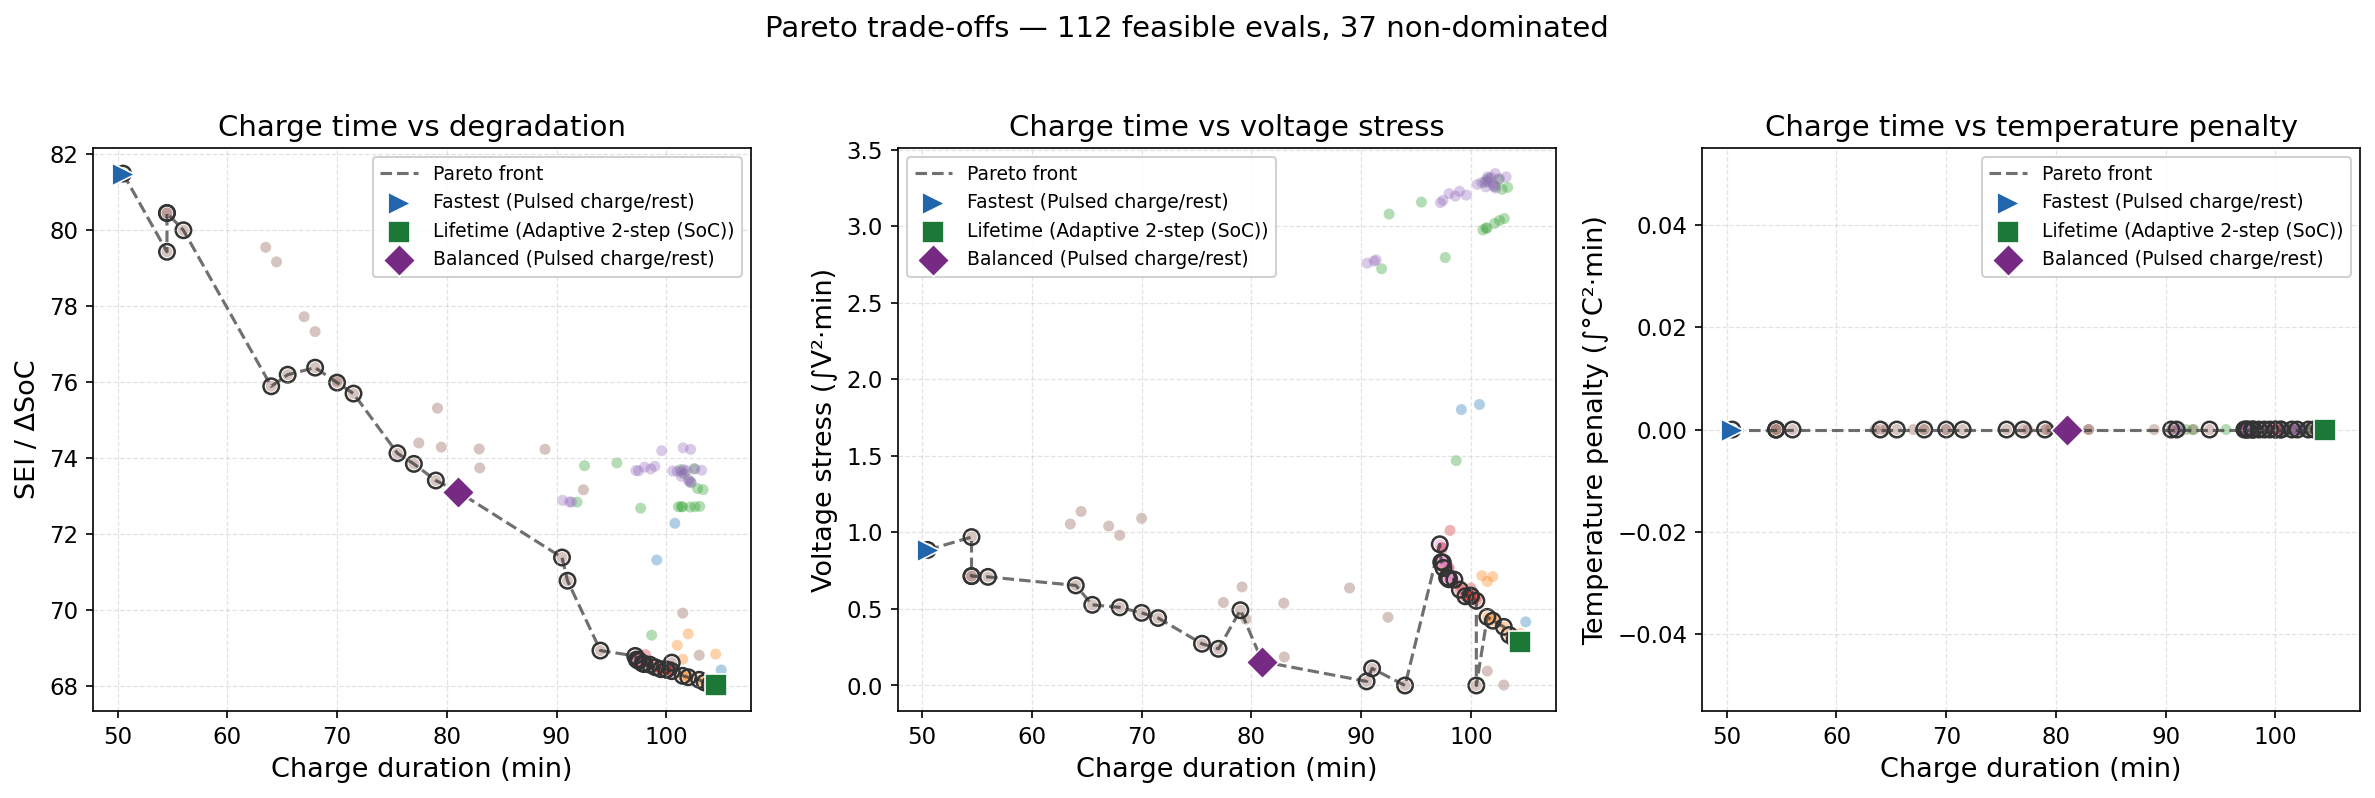
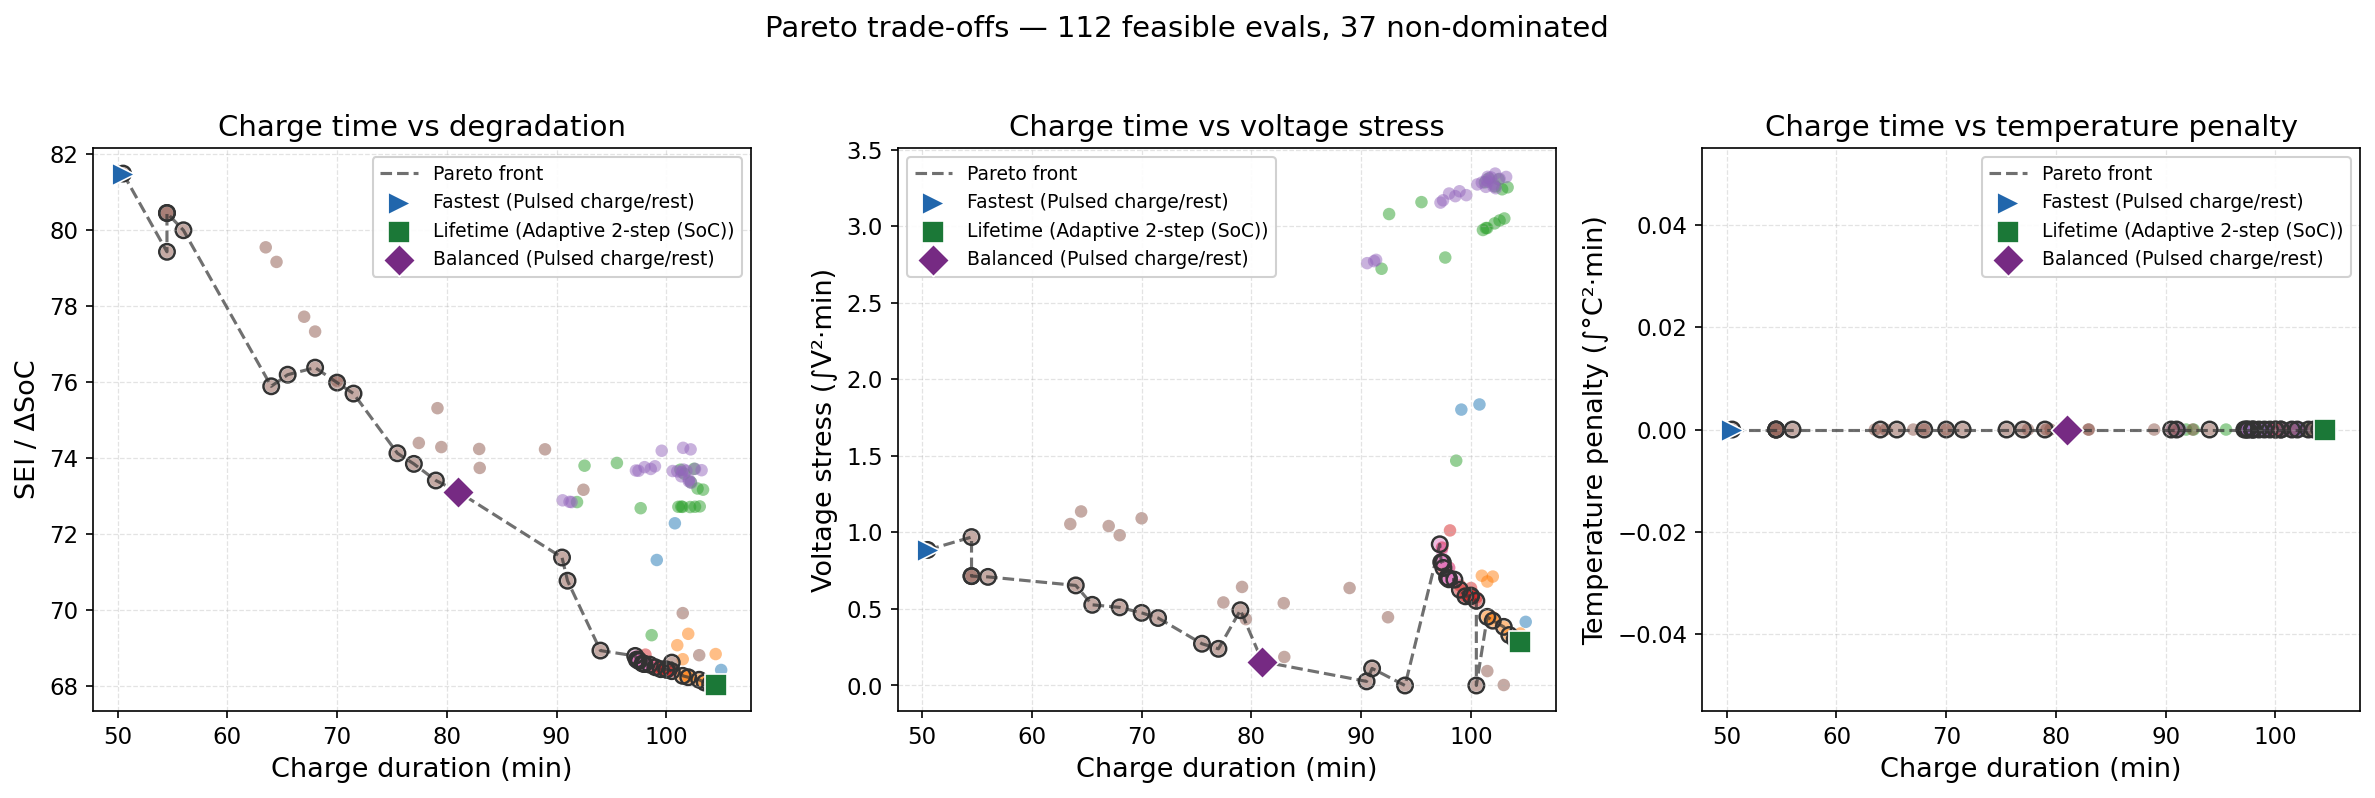
pareto corrected

diff --git a/charging_opt/pareto_reporting.py b/charging_opt/pareto_reporting.py
@@ -21,6 +21,7 @@ from charging_opt.pareto_analysis import (
     ParetoCandidate,
     analyze_results_payload,
     extract_feasible_candidates,
+    pareto_front,
 )
 
 TAG_COLORS = {
@@ -57,7 +58,7 @@ def _scatter_pareto_ax(
     for c in all_feasible:
         ax.scatter(
             getattr(c, x_attr), getattr(c, y_attr),
-            c=[colors[c.family_id]], s=28, alpha=0.35, edgecolors="none",
+            c=[colors[c.family_id]], s=36, alpha=0.5, edgecolors="none",
         )
     if front:
         fx = [getattr(c, x_attr) for c in front]
@@ -159,7 +160,7 @@ def pareto_by_family_plot(
         r, c = divmod(idx, ncols)
         ax = axes[r][c]
         fam_cands = [x for x in all_feasible if x.family_id == fid]
-        fam_front = [x for x in analysis.pareto_front if x.family_id == fid]
+        fam_front = pareto_front(fam_cands)
         _scatter_pareto_ax(
             ax, fam_cands, fam_front,
             x_attr="duration_min", y_attr="sei_per_pct_soc",